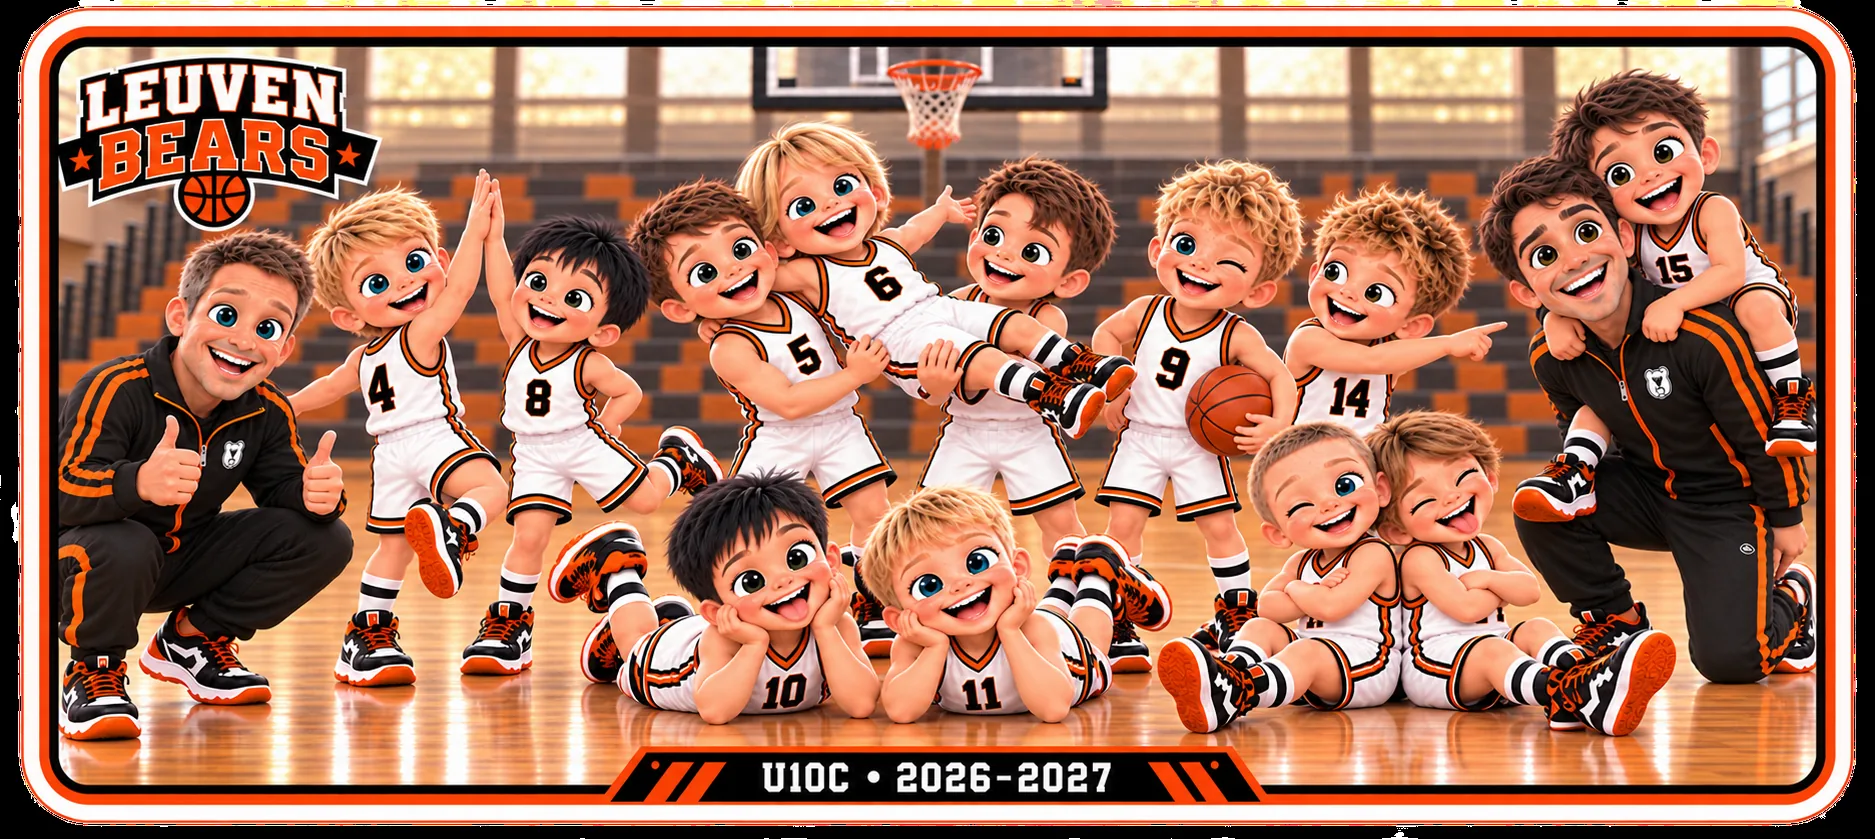
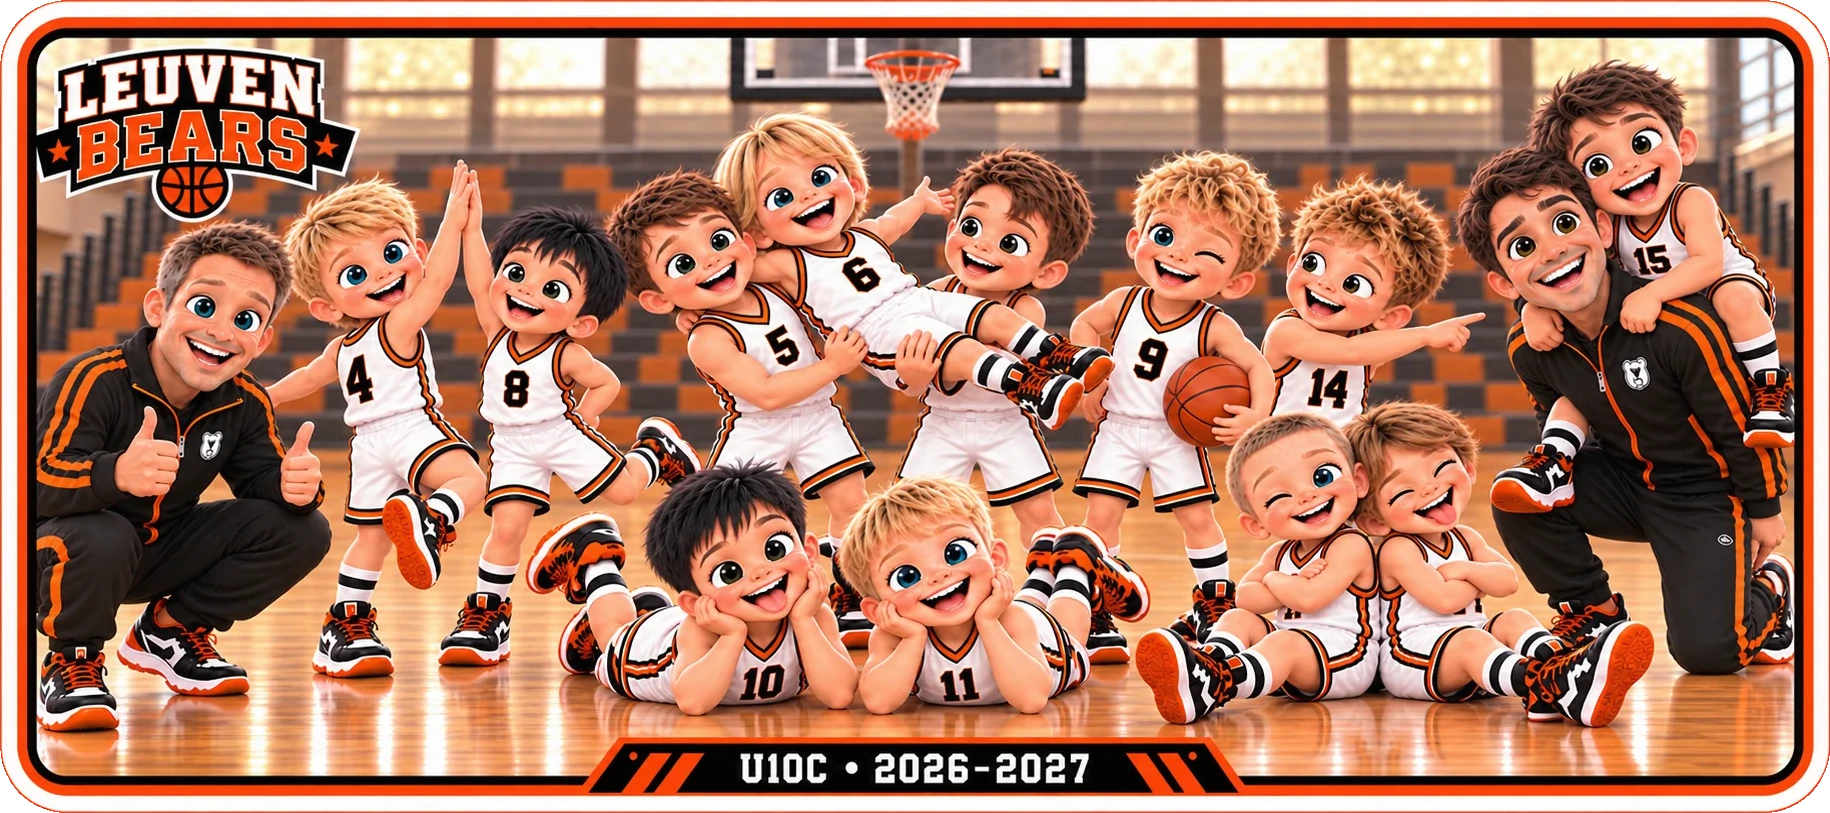
Use the cleaned transparent groepsfoto and flush-crop the hero.
Replace the RGB Spelers asset (white fringe on black) with the
alpha-cleaned illustration, crop the hero so the frame sits on the
bitmap edge, and keep CSS from adding a second frame or glow.

diff --git a/src/index.css b/src/index.css
@@ -2737,6 +2737,9 @@ vercel-live-feedback,
   max-height: none;
   margin: 0;
   padding: 0;
+  border: 0;
+  background: transparent;
+  box-shadow: none;
   overflow: visible;
 }
 
@@ -2756,6 +2759,10 @@ vercel-live-feedback,
   height: auto;
   max-width: 100%;
   max-height: none;
+  border: 0;
+  background: transparent;
+  box-shadow: none;
+  filter: none;
   object-fit: contain;
 }
 
@@ -2786,6 +2793,9 @@ vercel-live-feedback,
     margin: 0;
     padding: 0;
     border: 0;
+    background: transparent;
+    box-shadow: none;
+    /* Clip leftover fringe only — the framed photo itself stays inside the box. */
     overflow: hidden;
     line-height: 0;
     min-width: 0;
@@ -2821,6 +2831,8 @@ vercel-live-feedback,
     margin: 0;
     padding: 0;
     border: 0;
+    background: transparent;
+    box-shadow: none;
     filter: none;
     object-fit: fill;
     object-position: center;

diff --git a/src/components/StickerAlbum.tsx b/src/components/StickerAlbum.tsx
@@ -321,8 +321,10 @@ export function StickerAlbum({ players, staff }: StickerAlbumProps) {
 
         <article className="sticker-slot sticker-slot--group">
           <img
-            src="/stickers/groep-u10c-2026-hero.webp?v=20260920a"
+            src="/stickers/groep-u10c-2026-hero.webp?v=20260920b"
             alt={`Leuven Bears U10C groepsfoto ${team.season}`}
+            width={1830}
+            height={813}
             className="sticker-slot__art sticker-album__group-img"
           />
         </article>
